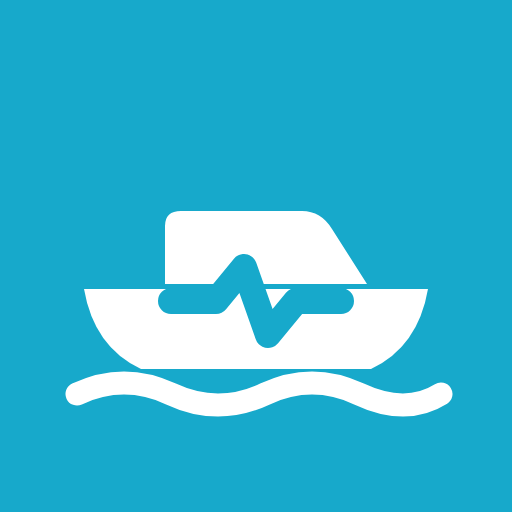
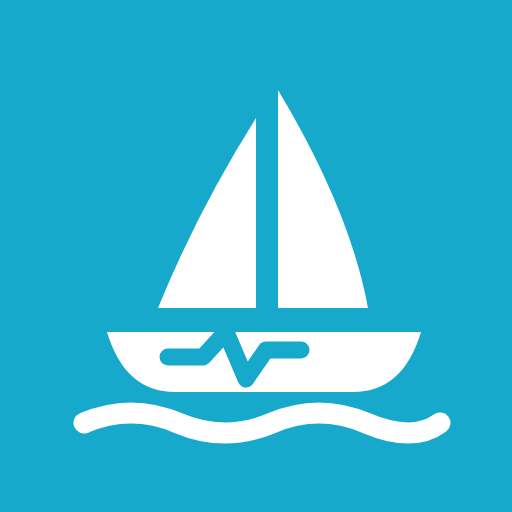
Перерисованы значки мотоцикла и яхты
Яхта теперь парусная: катер с рубкой читался как «лодка вообще», а яхту
узнают по парусу.

Мотоцикл собран из простых фигур вместо кривых от руки — на мелком
размере они читаются лучше. Рама рисуется ПОД колёсами, иначе линии
врезаются внутрь обода и силуэт выглядит велосипедным. Лишняя
перекладина между колёсами убрана: брус бака соединяет их сам.

Changed region(s): [[0.125, 0.1875, 0.9062, 0.875]]

diff --git a/index.html b/index.html
@@ -23,7 +23,7 @@
 <meta property="og:locale" content="ru_RU">
 <meta name="twitter:card" content="summary_large_image">
 <meta name="theme-color" content="#0E9C93">
-<meta name="app-version" content="88">
+<meta name="app-version" content="89">
 <link rel="manifest" href="manifest.json">
 <!-- SVG — основной вариант; PNG и .ico нужны браузерам без поддержки SVG-фавиконок. -->
 <link rel="icon" href="icons/icon.svg" type="image/svg+xml">

diff --git a/service-worker.js b/service-worker.js
@@ -1,4 +1,4 @@
-const CACHE_NAME = 'avtopuls-v88';
+const CACHE_NAME = 'avtopuls-v89';
 const APP_SHELL = [
   './',
   './index.html',
